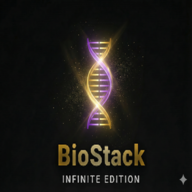
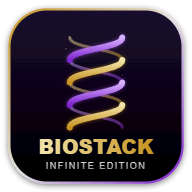
Add files via upload

diff --git a/index.html b/index.html
@@ -99,36 +99,20 @@ input, textarea, select {
             transition: transform 0.4s cubic-bezier(0.2, 0.8, 0.2, 1); 
         }
         .start-hidden { transform: translateY(-100%); }
-
-        /* --- START SCREEN STYLES --- */
-        #start-screen {
-            position: fixed; top: 0; left: 0; width: 100%; height: 100%;
-            background: radial-gradient(circle at center, #111111, #000000); 
-            z-index: 9999;
-            display: flex; flex-direction: column; align-items: center; justify-content: center;
-            text-align: center;
-            transition: transform 0.4s cubic-bezier(0.2, 0.8, 0.2, 1); 
+        .logo-big { margin-bottom: 20px; animation: pulseGold 3s infinite; } 
+        
+        .app-title { 
+            font-size: 38px; 
+            font-weight: 900; 
+            /* Echtes Premium Metallic-Gold */
+            background: linear-gradient(to right, #C69320 0%, #F3E5AB 50%, #C69320 100%); 
+            -webkit-background-clip: text; 
+            color: transparent; 
+            margin: 0; 
+            text-shadow: 0 4px 15px rgba(0, 0, 0, 0.9); 
+            letter-spacing: 1px;
         }
-        .start-hidden { transform: translateY(-100%); }
-
-        /* --- NEUES SPLASH IMAGE --- */
-        .splash-hero-img {
-            width: 100%;
-            max-width: 450px; 
-            height: auto;
-            margin-bottom: 20px;
-            animation: pulseGold 4s ease-in-out infinite alternate;
-            
-            mix-blend-mode: screen; 
-            -webkit-user-drag: none; 
-            user-select: none;
-            
-            /* Verhindert Grafik-Glitches (weiße Ecken) auf iOS beim Blenden */
-            -webkit-backface-visibility: hidden;
-            backface-visibility: hidden;
-            transform: translateZ(0);
-        }
-
+        .app-ver { font-size: 14px; color: #c0c0c0; font-weight: 600; margin-bottom: 30px; letter-spacing: 2px; text-transform: uppercase; } /* Silber-Grau */
         .app-desc { font-size: 14px; color: #94a3b8; max-width: 80%; line-height: 1.6; margin-bottom: 30px; }
         
         .welcome-input {
@@ -460,15 +444,40 @@ input, textarea, select {
 </div>
 
 <div id="start-screen">
+    <div class="logo-big">
+        <svg xmlns="http://www.w3.org/2000/svg" viewBox="0 0 200 340" width="100" height="170">
+          <defs>
+            <linearGradient id="gold" x1="0" y1="0" x2="0" y2="1"><stop offset="0%" stop-color="#F3E5AB"/><stop offset="100%" stop-color="#C69320"/></linearGradient>
+            <linearGradient id="purple" x1="0" y1="0" x2="0" y2="1"><stop offset="0%" stop-color="#d8b4fe"/><stop offset="100%" stop-color="#7e22ce"/></linearGradient>
+            <linearGradient id="rung" x1="0" y1="0" x2="1" y2="0"><stop offset="0%" stop-color="#C69320"/><stop offset="100%" stop-color="#7e22ce"/></linearGradient>
+            <filter id="glowGold" x="-50%" y="-50%" width="200%" height="200%"><feDropShadow dx="0" dy="0" stdDeviation="5" flood-color="#C69320" flood-opacity="0.6"/></filter>
+            <filter id="glowPurple" x="-50%" y="-50%" width="200%" height="200%"><feDropShadow dx="0" dy="0" stdDeviation="5" flood-color="#a855f7" flood-opacity="0.6"/></filter>
+          </defs>
+          <g fill="#FFF" opacity="0.4"><circle cx="20" cy="80" r="1.5" /><circle cx="170" cy="150" r="1" /><circle cx="30" cy="220" r="2" opacity="0.3" /><circle cx="160" cy="280" r="1.5" /></g>
+          <g stroke-linecap="round">
+            <path d="M 30 50 C 30 80, 170 80, 170 110" fill="none" stroke="url(#gold)" stroke-width="8" opacity="0.5"/>
+            <path d="M 30 170 C 30 200, 170 200, 170 230" fill="none" stroke="url(#gold)" stroke-width="8" opacity="0.5"/>
+            <path d="M 30 110 C 30 140, 170 140, 170 170" fill="none" stroke="url(#purple)" stroke-width="8" opacity="0.5"/>
+            <path d="M 30 230 C 30 260, 170 260, 170 290" fill="none" stroke="url(#purple)" stroke-width="8" opacity="0.5"/>
+            <g stroke="url(#rung)" stroke-width="4" opacity="0.8">
+              <line x1="45" y1="65" x2="155" y2="65" /><line x1="45" y1="95" x2="155" y2="95" /><line x1="45" y1="125" x2="155" y2="125" /><line x1="45" y1="155" x2="155" y2="155" /><line x1="45" y1="185" x2="155" y2="185" /><line x1="45" y1="215" x2="155" y2="215" /><line x1="45" y1="245" x2="155" y2="245" /><line x1="45" y1="275" x2="155" y2="275" />
+            </g>
+            <path d="M 170 50 C 170 80, 30 80, 30 110" fill="none" stroke="url(#purple)" stroke-width="16" filter="url(#glowPurple)"/>
+            <path d="M 170 170 C 170 200, 30 200, 30 230" fill="none" stroke="url(#purple)" stroke-width="16" filter="url(#glowPurple)"/>
+            <path d="M 170 110 C 170 140, 30 140, 30 170" fill="none" stroke="url(#gold)" stroke-width="16" filter="url(#glowGold)"/>
+            <path d="M 170 230 C 170 260, 30 260, 30 290" fill="none" stroke="url(#gold)" stroke-width="16" filter="url(#glowGold)"/>
+          </g>
+        </svg>
+    </div>
+    <h1 class="app-title">BioStack</h1>
+    <div class="app-ver">Infinite Edition</div>
     
-    <img src="https://i.imgur.com/2RUKod9.png" alt="BioStack" class="splash-hero-img">
-    
-    <div class="app-desc" id="start-text" style="margin-top: -20px; z-index: 2; position: relative;">
+    <div class="app-desc" id="start-text" style="position: relative; z-index: 2;">
         Lade Daten...
     </div>
 
-    <input type="text" id="user-name-input" class="welcome-input" placeholder="Wie ist dein Name?" style="z-index: 2; position: relative;">
-    <button id="user-name-btn" class="welcome-btn" onclick="saveUserName()" style="z-index: 2; position: relative;">LOS GEHT'S</button>
+    <input type="text" id="user-name-input" class="welcome-input" placeholder="Wie ist dein Name?" style="position: relative; z-index: 2;">
+    <button id="user-name-btn" class="welcome-btn" onclick="saveUserName()" style="position: relative; z-index: 2;">LOS GEHT'S</button>
     
     <div class="swipe-hint" id="swipe-hint">⬆ WEGSWIPEN ZUM STARTEN</div>
 </div>
@@ -3890,26 +3899,15 @@ document.addEventListener('touchmove', function (e) {
     e.preventDefault(); // Alles andere (Hintergrund ziehen) verbieten
 }, { passive: false });
 
-// =========================================
-// NEU V3: Absoluter iOS Tastatur-Fix (Transformation)
-// =========================================
+// NEU: iOS Tastatur-Fix (scrollt das Eingabefeld in den sichtbaren Bereich)
 if (/iPhone|iPad|iPod/i.test(navigator.userAgent)) {
-    setTimeout(() => {
-        // Jetzt mit der KORREKTEN ID aus deinem HTML
-        const nameInput = document.getElementById('user-name-input');
-        const startScreenEl = document.getElementById('start-screen');
-        
-        if (nameInput && startScreenEl) {
-            nameInput.addEventListener('focus', function() {
-                // Schiebt den gesamten schwarzen Screen physisch nach oben
-                startScreenEl.style.transform = 'translateY(-20vh)';
-            });
-            nameInput.addEventListener('blur', function() {
-                // Setzt ihn wieder zurück in die Mitte, wenn die Tastatur zugeht
-                startScreenEl.style.transform = 'translateY(0)';
-            });
+    document.addEventListener('focusin', function(e) {
+        if (e.target.tagName === 'INPUT' || e.target.tagName === 'TEXTAREA') {
+            setTimeout(function() {
+                e.target.scrollIntoView({ behavior: 'smooth', block: 'center' });
+            }, 300);
         }
-    }, 500); 
+    });
 }
 
     if ('serviceWorker' in navigator) {
